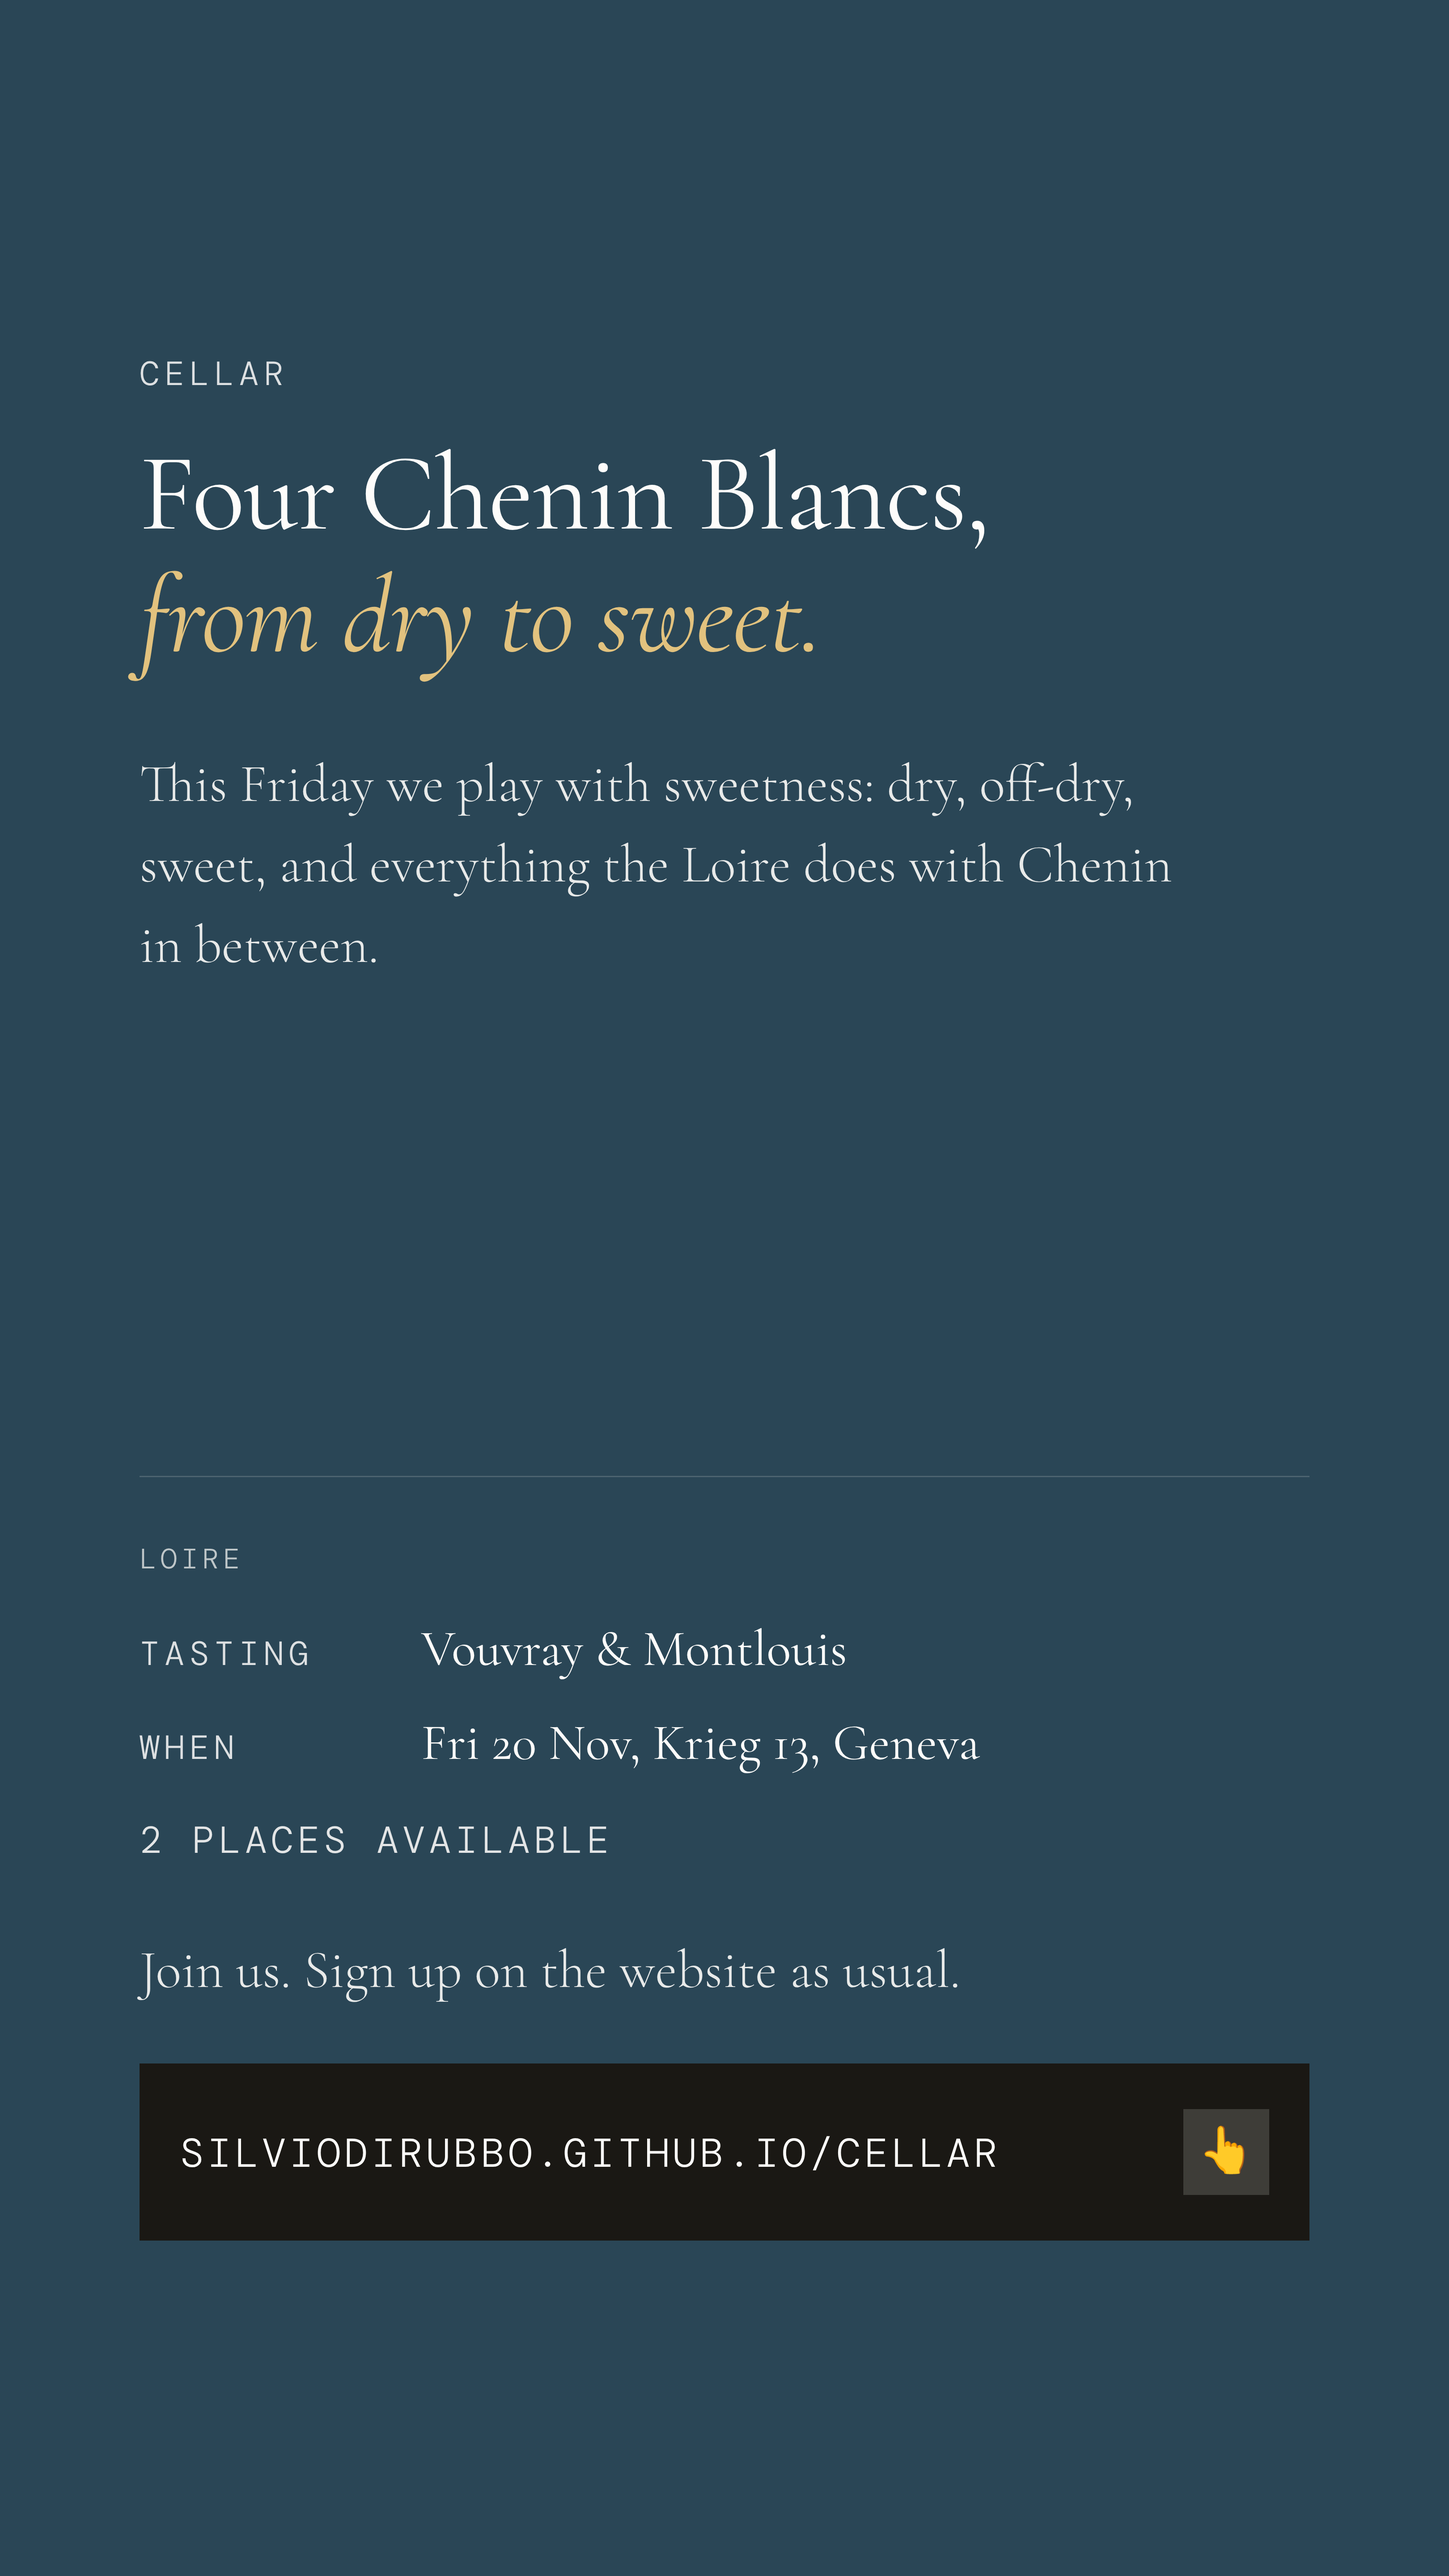
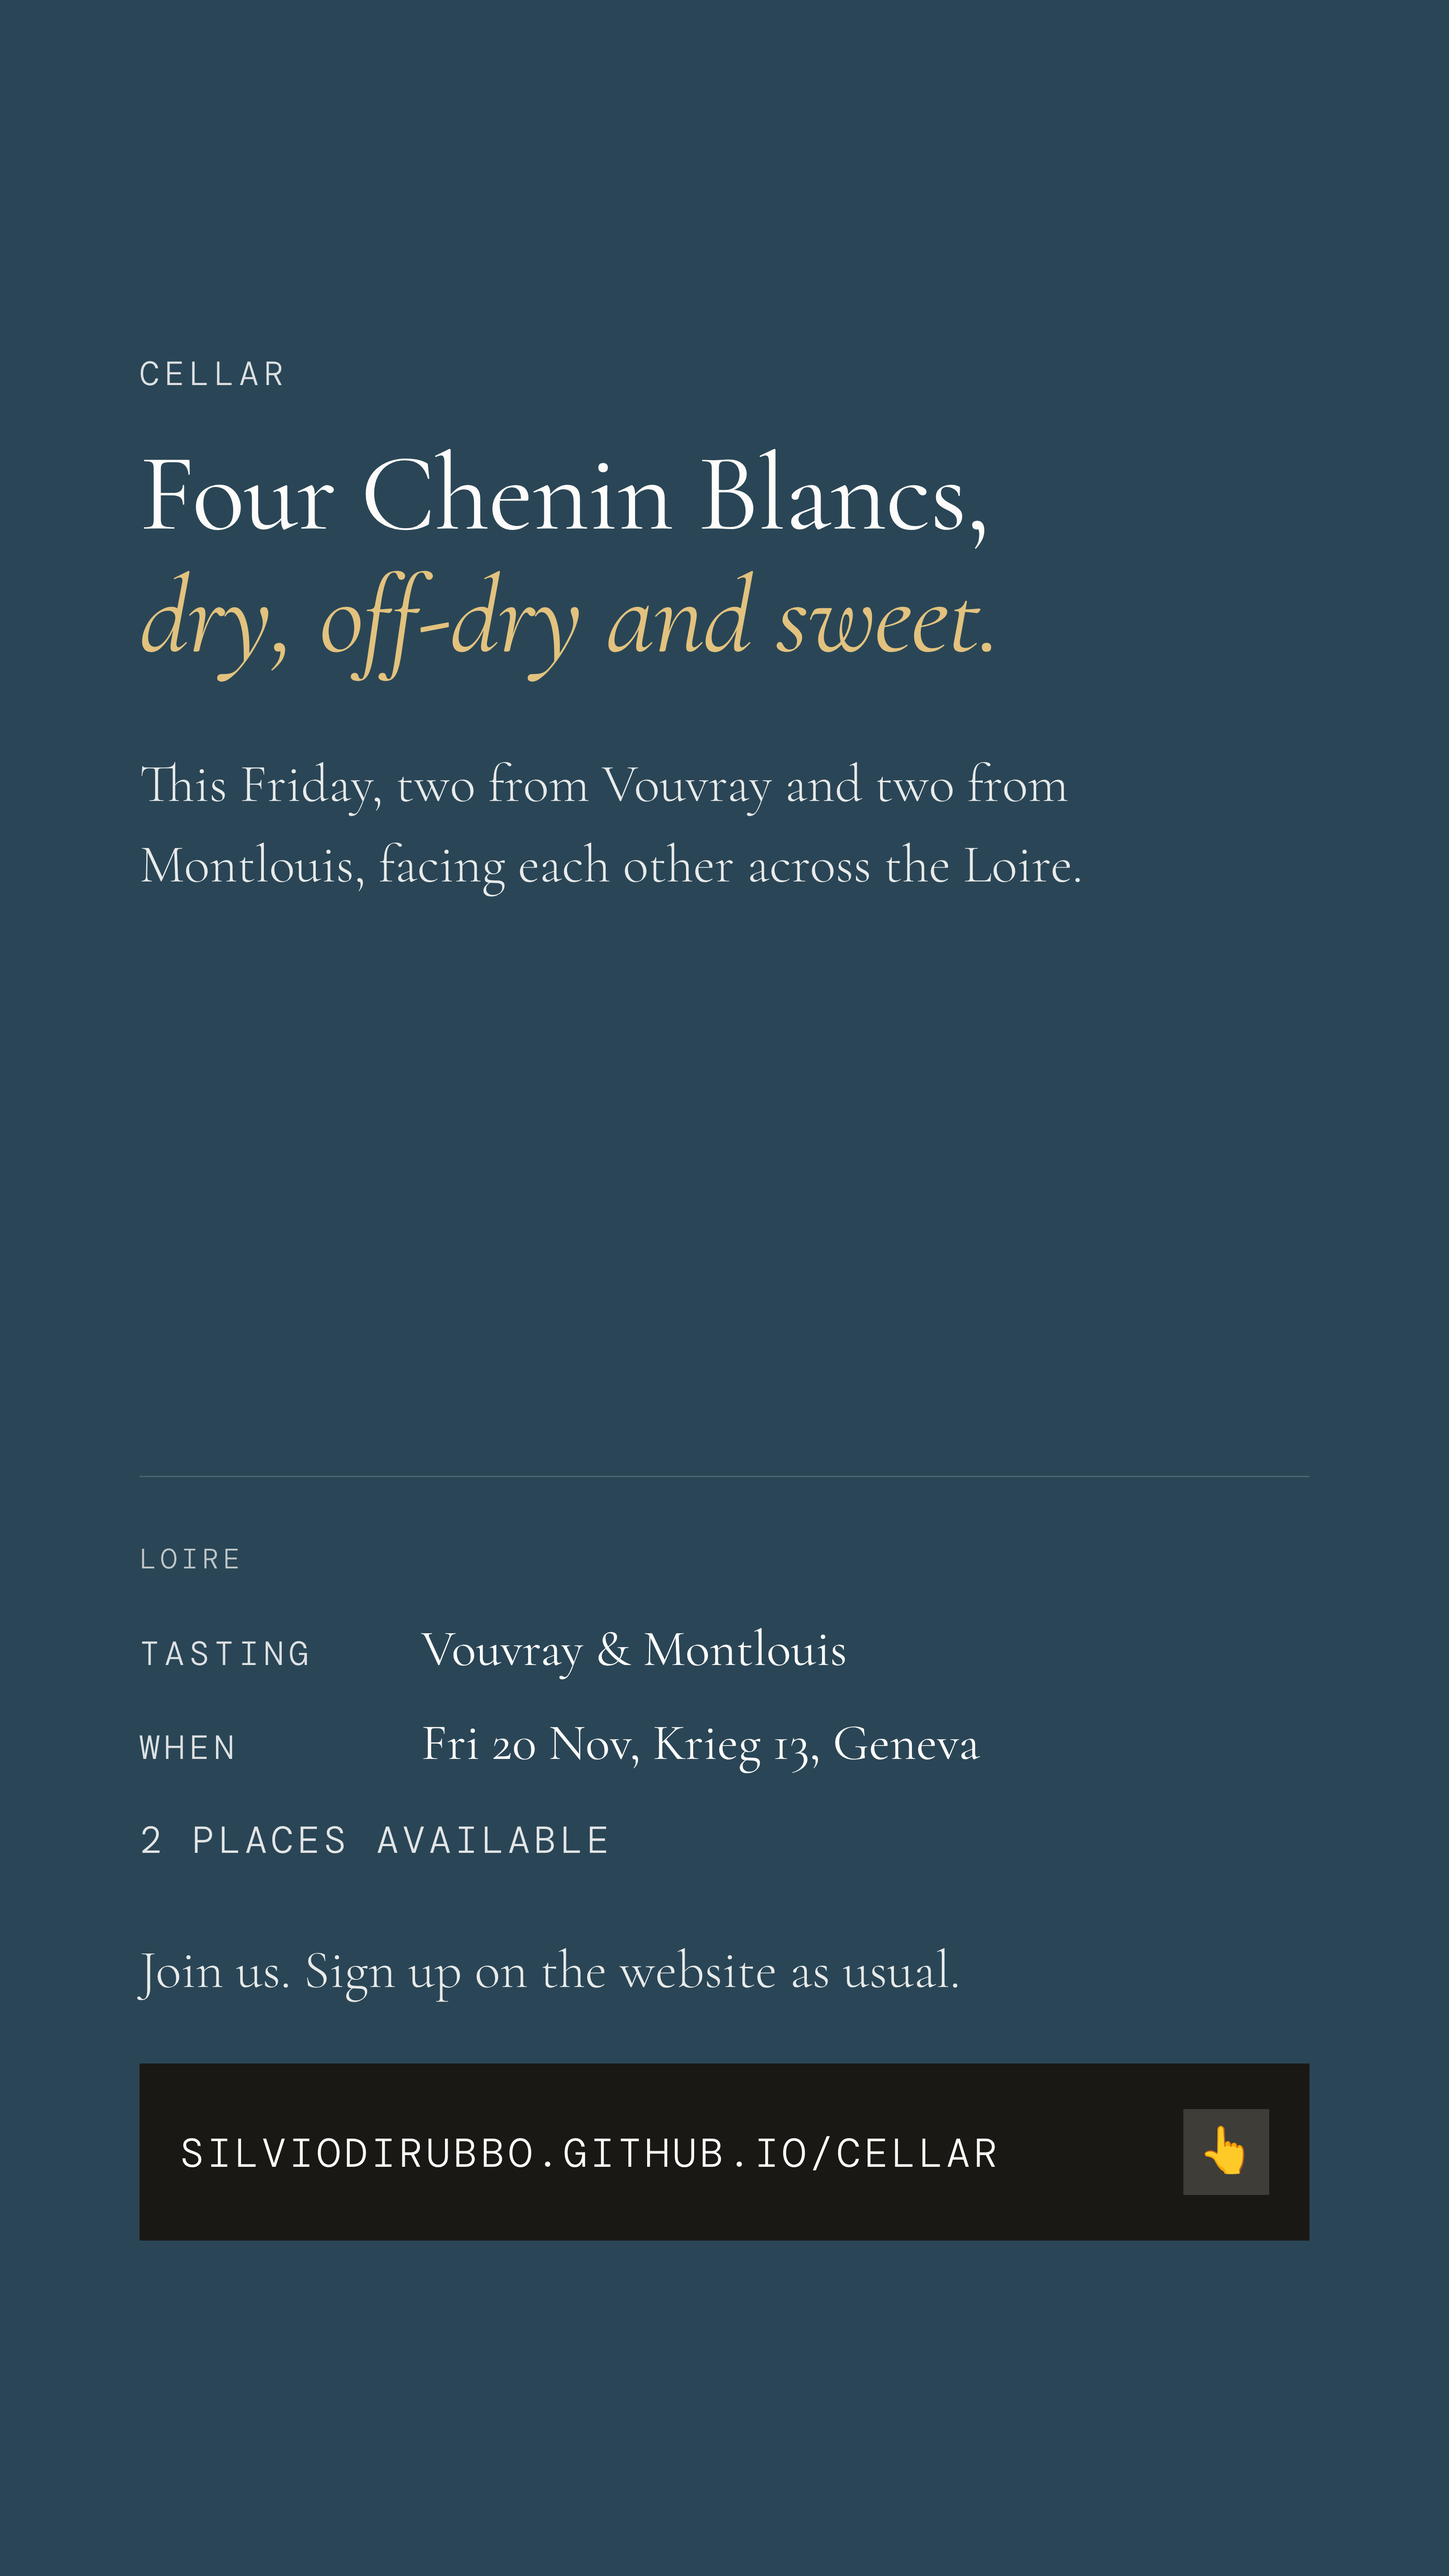
Story 30: copy that holds whatever the pouring order
Headline second line "dry, off-dry and sweet." names the range rather
than a dry-to-sweet progression, since the deck pours by appellation.
Supporting line now states the lineup plainly: two from Vouvray, two
from Montlouis, facing each other across the Loire.

Claude-Session: https://claude.ai/code/session_01V8kbmJeJHsKBXsm8ynaoNX

diff --git a/assets/social/instagram/stories/src/story-30-vouvray-montlouis-teaser.html b/assets/social/instagram/stories/src/story-30-vouvray-montlouis-teaser.html
@@ -7,12 +7,11 @@ tasting_slug: vouvray-montlouis
 story_bg: blue
 label: "CELLAR"
 hook: "Four Chenin Blancs,"
-hook_em: "from dry to sweet."
+hook_em: "dry, off-dry and sweet."
 plain: true
 body:
-  - "This Friday we play with sweetness: dry, off-dry,"
-  - "sweet, and everything the Loire does with Chenin"
-  - "in between."
+  - "This Friday, two from Vouvray and two from"
+  - "Montlouis, facing each other across the Loire."
 city: "Geneva"
 chapter_tag: true
 show_places: true
